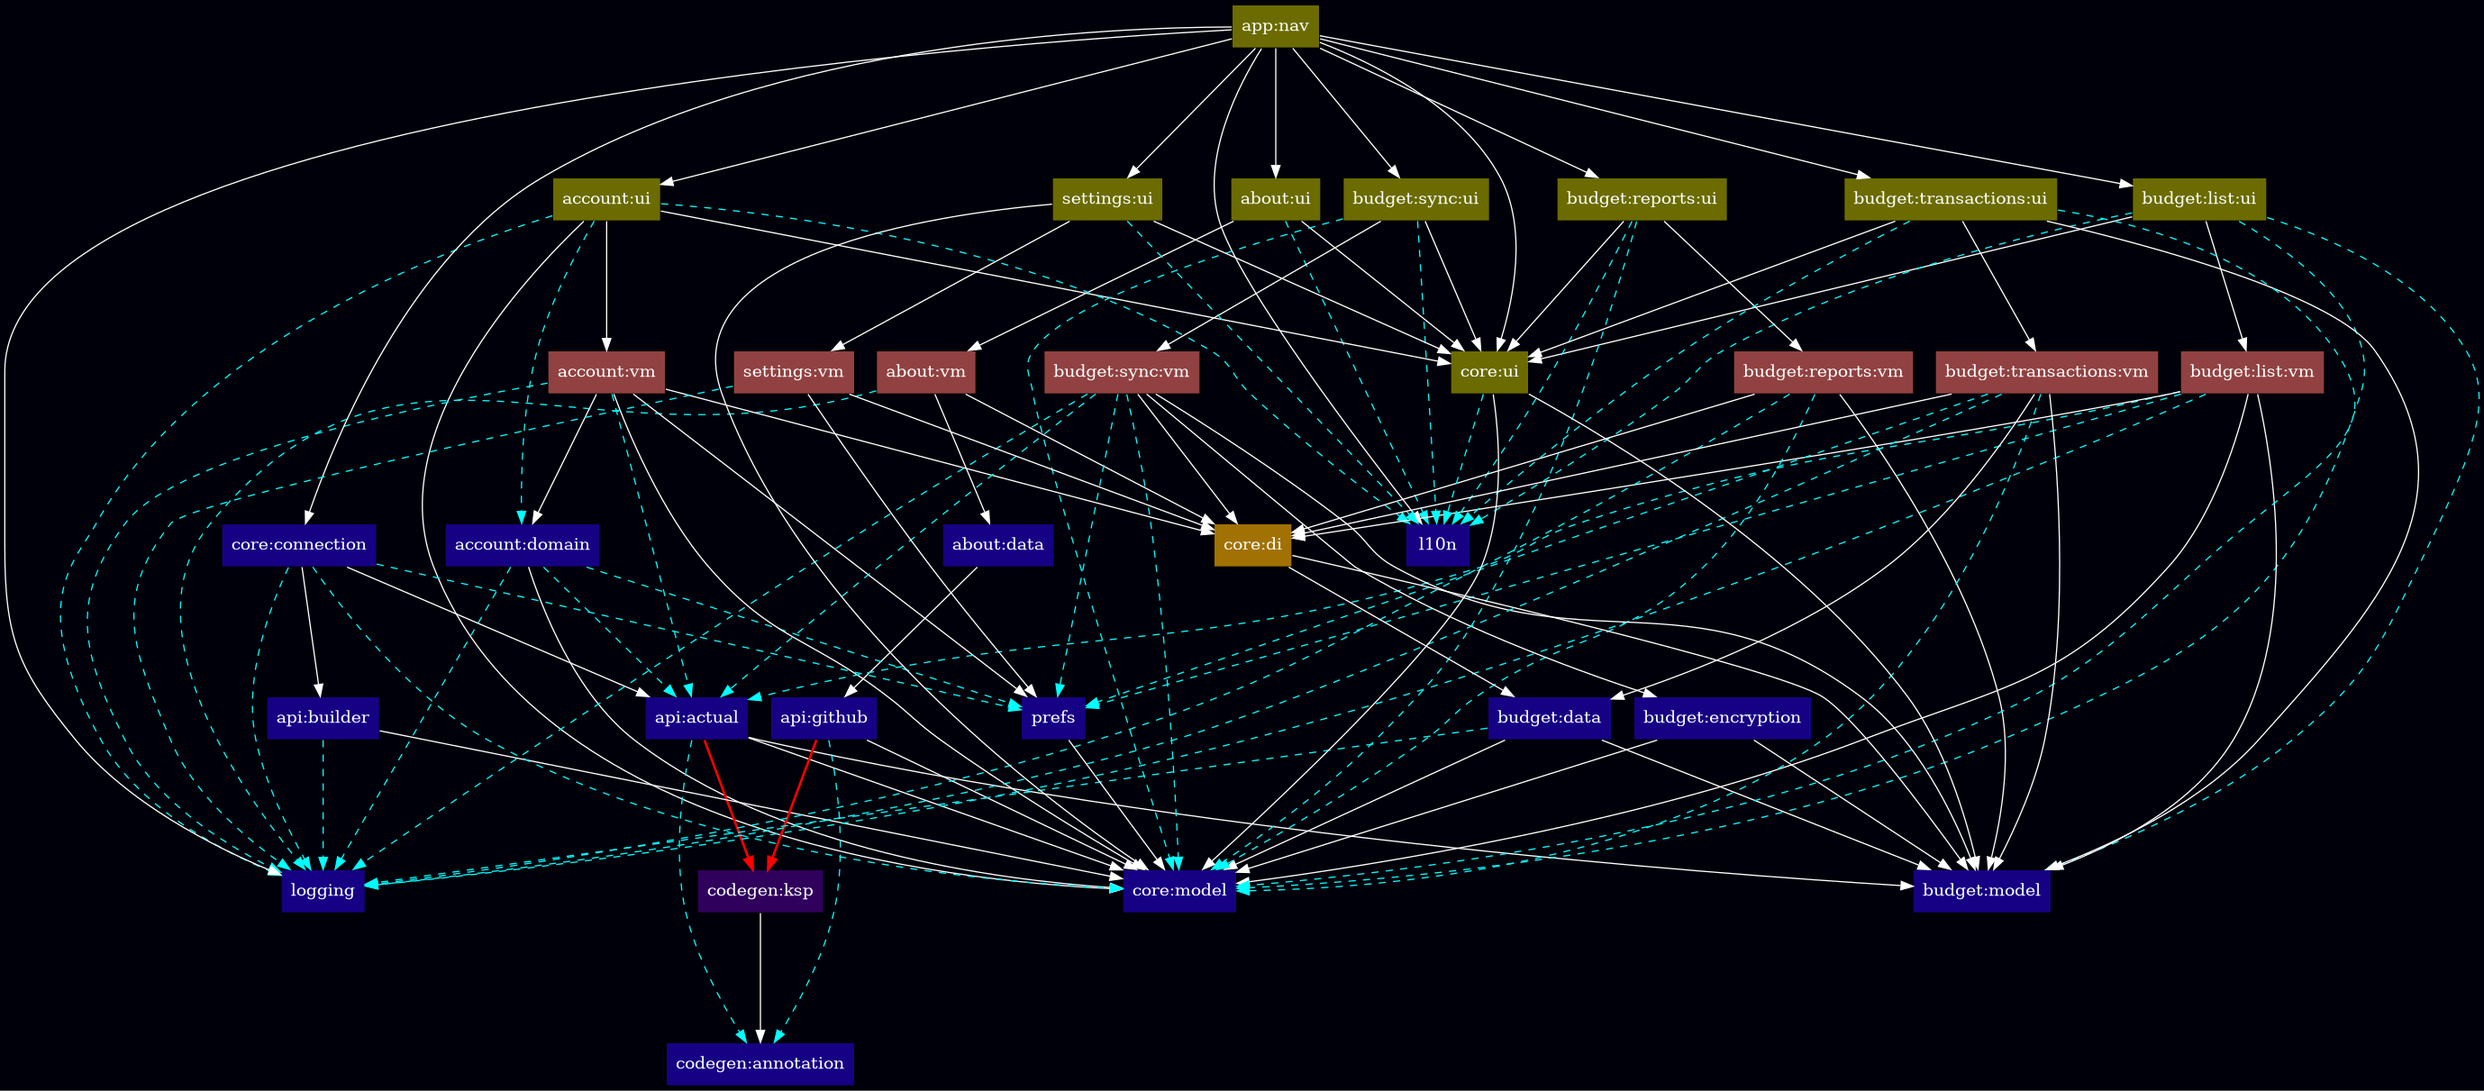
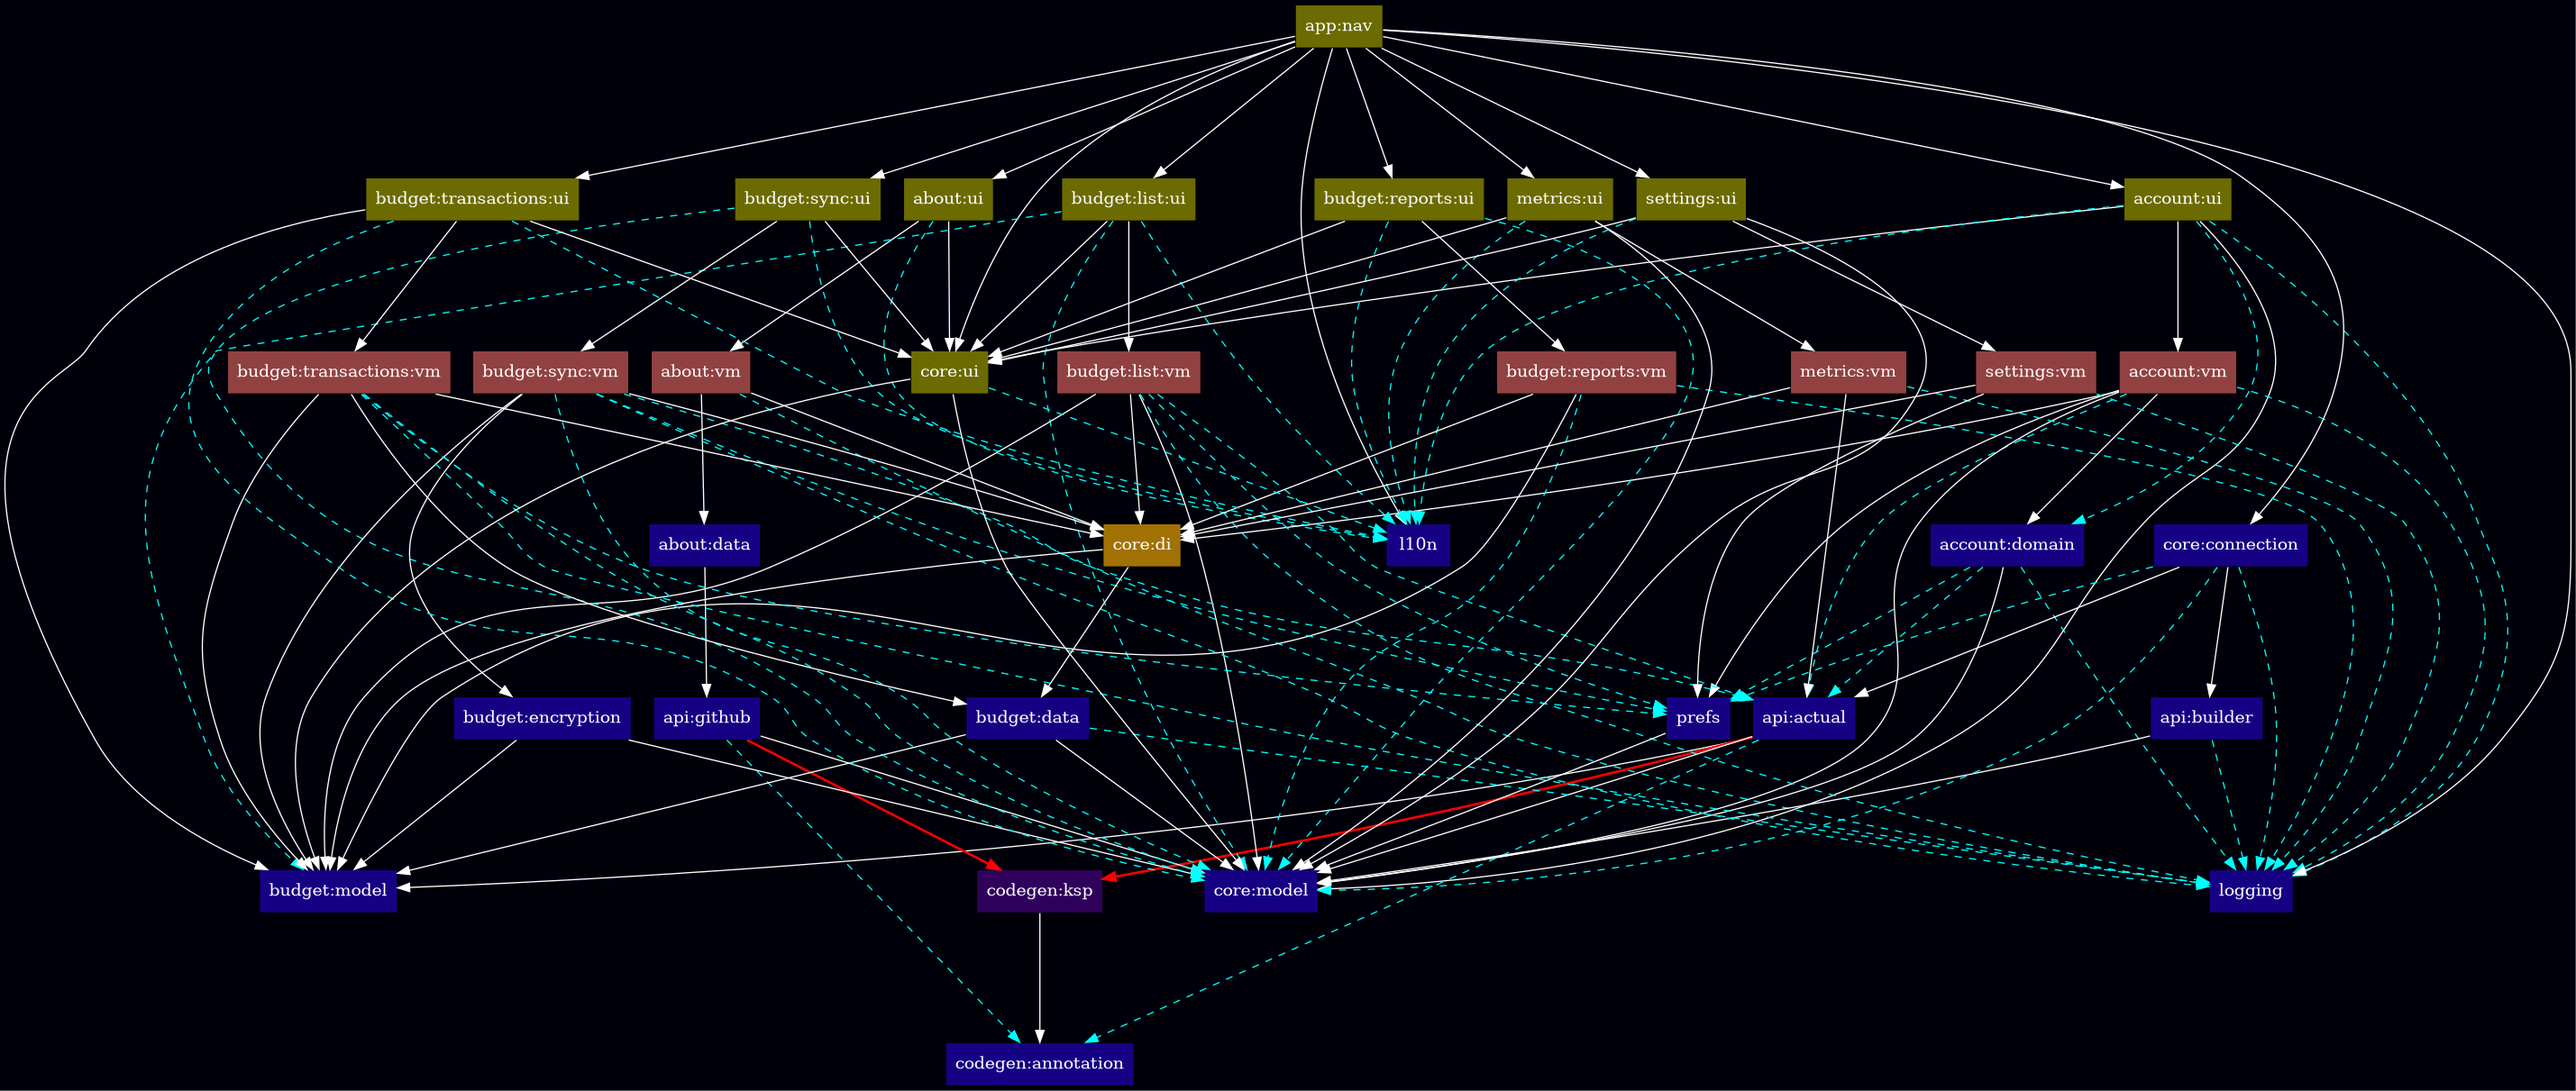
Nav from budget list screen

diff --git a/aktual-metrics/ui/src/commonMain/kotlin/aktual/metrics/ui/MetricsScreen.kt b/aktual-metrics/ui/src/commonMain/kotlin/aktual/metrics/ui/MetricsScreen.kt
@@ -45,6 +45,7 @@ import androidx.compose.material3.TopAppBarDefaults
 import androidx.compose.material3.TopAppBarScrollBehavior
 import androidx.compose.material3.rememberTopAppBarState
 import androidx.compose.runtime.Composable
+import androidx.compose.runtime.Stable
 import androidx.compose.runtime.getValue
 import androidx.compose.runtime.remember
 import androidx.compose.ui.Alignment
@@ -58,6 +59,7 @@ import androidx.lifecycle.compose.collectAsStateWithLifecycle
 import dev.chrisbanes.haze.HazeState
 import dev.chrisbanes.haze.hazeSource
 import dev.zacsweers.metrox.viewmodel.metroViewModel
+import kotlin.time.Duration
 import kotlin.time.Duration.Companion.days
 import kotlin.time.Duration.Companion.hours
 import kotlin.time.Duration.Companion.milliseconds
@@ -250,7 +252,7 @@ private fun SuccessContent(
     state = hazeState,
     padding = PaddingValues(25.dp),
   ) {
-    SuccessContentRow(title = Strings.metricsUptime, value = state.uptime.toString())
+    SuccessContentRow(title = Strings.metricsUptime, value = state.uptime.formattedString())
   }
 
   HazedBox(
@@ -275,6 +277,22 @@ private fun SuccessContent(
         SuccessContentRow(title = Strings.metricsMemoryArrayBuffers, value = arrayBuffers.toString())
       }
     }
+  }
+}
+
+@Stable
+@Suppress("MagicNumber")
+private fun Duration.formattedString(): String {
+  val d = inWholeDays
+  val h = inWholeHours % 24
+  val m = inWholeMinutes % 60
+  val s = inWholeSeconds % 60
+  return when {
+    d >= 1 -> "${d}d ${h}h ${m}m ${s}s"
+    h >= 1 -> "${h}h ${m}m ${s}s"
+    m >= 1 -> "${m}m ${s}s"
+    s >= 1 -> "${s}s"
+    else -> "0s"
   }
 }
 

diff --git a/aktual-budget/list/ui/src/commonMain/kotlin/aktual/budget/list/ui/TopBarActions.kt b/aktual-budget/list/ui/src/commonMain/kotlin/aktual/budget/list/ui/TopBarActions.kt
@@ -8,6 +8,7 @@ import aktual.core.ui.BasicIconButton
 import aktual.core.ui.normalIconButton
 import aktual.l10n.Strings
 import androidx.compose.material.icons.Icons
+import androidx.compose.material.icons.filled.BarChart
 import androidx.compose.material.icons.filled.Cloud
 import androidx.compose.material.icons.filled.Info
 import androidx.compose.material.icons.filled.Key
@@ -78,6 +79,16 @@ internal fun MoreMenu(
       onAction(ChangePassword)
     },
     leadingIcon = { Icon(Icons.Filled.Key, contentDescription = passwordText) },
+  )
+
+  val metricsText = Strings.metricsToolbar
+  DropdownMenuItem(
+    text = { Text(metricsText) },
+    onClick = {
+      onDismissRequest()
+      onAction(OpenServerMetrics)
+    },
+    leadingIcon = { Icon(Icons.Filled.BarChart, contentDescription = metricsText) },
   )
 
   val aboutText = Strings.listBudgetsAbout

diff --git a/aktual-budget/list/ui/src/commonMain/kotlin/aktual/budget/list/ui/ListBudgetsScreen.kt b/aktual-budget/list/ui/src/commonMain/kotlin/aktual/budget/list/ui/ListBudgetsScreen.kt
@@ -6,6 +6,7 @@ import aktual.budget.list.ui.ListBudgetsAction.Delete
 import aktual.budget.list.ui.ListBudgetsAction.Open
 import aktual.budget.list.ui.ListBudgetsAction.OpenAbout
 import aktual.budget.list.ui.ListBudgetsAction.OpenInBrowser
+import aktual.budget.list.ui.ListBudgetsAction.OpenServerMetrics
 import aktual.budget.list.ui.ListBudgetsAction.OpenSettings
 import aktual.budget.list.ui.ListBudgetsAction.Reload
 import aktual.budget.list.vm.ListBudgetsState
@@ -103,6 +104,7 @@ fun ListBudgetsScreen(
         ChangePassword -> nav.toChangePassword()
         OpenAbout -> nav.toAbout()
         OpenSettings -> nav.toSettings()
+        OpenServerMetrics -> nav.toMetrics()
         OpenInBrowser -> viewModel.open(serverUrl)
         Reload -> viewModel.retry()
         is Delete -> budgetToDelete = action.budget

diff --git a/aktual-app/nav/src/commonMain/kotlin/aktual/app/nav/Navigators.kt b/aktual-app/nav/src/commonMain/kotlin/aktual/app/nav/Navigators.kt
@@ -43,6 +43,7 @@ private class InfoNavigatorImpl(private val nav: NavHostController) : InfoNaviga
 private class ListBudgetsNavigatorImpl(private val nav: NavHostController) : ListBudgetsNavigator {
   override fun toAbout() = nav.debugNav(InfoNavRoute)
   override fun toChangePassword() = nav.debugNav(ChangePasswordNavRoute)
+  override fun toMetrics() = nav.debugNav(MetricsNavRoute)
   override fun toSettings() = nav.debugNav(SettingsNavRoute)
   override fun toSyncBudget(token: LoginToken, id: BudgetId) = nav.debugNav(SyncBudgetsNavRoute(token, id))
   override fun toUrl() = nav.debugNav(ServerUrlNavRoute) { popUpTo(LoginNavRoute) { inclusive = true } }

diff --git a/aktual-budget/list/ui/src/commonMain/kotlin/aktual/budget/list/ui/ListBudgetsAction.kt b/aktual-budget/list/ui/src/commonMain/kotlin/aktual/budget/list/ui/ListBudgetsAction.kt
@@ -11,6 +11,7 @@ internal sealed interface ListBudgetsAction {
   data object OpenAbout : ListBudgetsAction
   data object OpenInBrowser : ListBudgetsAction
   data object OpenSettings : ListBudgetsAction
+  data object OpenServerMetrics : ListBudgetsAction
   data class Open(val budget: Budget) : ListBudgetsAction
   data class Delete(val budget: Budget) : ListBudgetsAction
 }

diff --git a/aktual-budget/list/ui/src/commonMain/kotlin/aktual/budget/list/ui/ListBudgetsNavigator.kt b/aktual-budget/list/ui/src/commonMain/kotlin/aktual/budget/list/ui/ListBudgetsNavigator.kt
@@ -10,5 +10,6 @@ interface ListBudgetsNavigator {
   fun toChangePassword()
   fun toUrl()
   fun toSettings()
+  fun toMetrics()
   fun toSyncBudget(token: LoginToken, id: BudgetId)
 }
